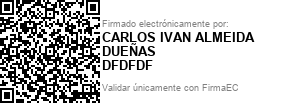
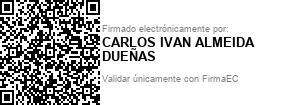
Ajuste dimensiones QR

Changed region(s): [[0.0, 0.0, 0.87, 1.0]]

diff --git a/firma/views.py b/firma/views.py
@@ -68,10 +68,10 @@ def crear_estampa_firma(nombre_firmante, razon, localizacion, fecha):
     qr.make(fit=True)
     qr_img_rgb = qr.make_image(fill_color="black", back_color="white").convert("RGB")
     qr_img_cropped = qr_img_rgb.crop(qr_img_rgb.getbbox())
-    qr_final = qr_img_cropped.resize((100, 103), resample=Image.Resampling.NEAREST)
+    qr_final = qr_img_cropped.resize((100, 105), resample=Image.Resampling.NEAREST)
 
     # Crear estampa
-    ancho, alto = 300, 103
+    ancho, alto = 300, 105
     estampa = Image.new("RGBA", (ancho, alto), (0, 0, 0, 0))
     estampa.paste(qr_final.convert("RGBA"), (0, 0))
 
@@ -160,7 +160,7 @@ def firmar_pdf(request):
                     "sigfield": "Signature1",
                     "auto_sigfield": True,
                     "sigandcertify": True,
-                    "signaturebox": (x, y, x + 108, y + 35),  
+                    "signaturebox": (x, y, x + 108, y + 36),  
                     "signature_img": ruta_estampa,
                     "contact": nombre_firmante,
                     "location": localizacion,
